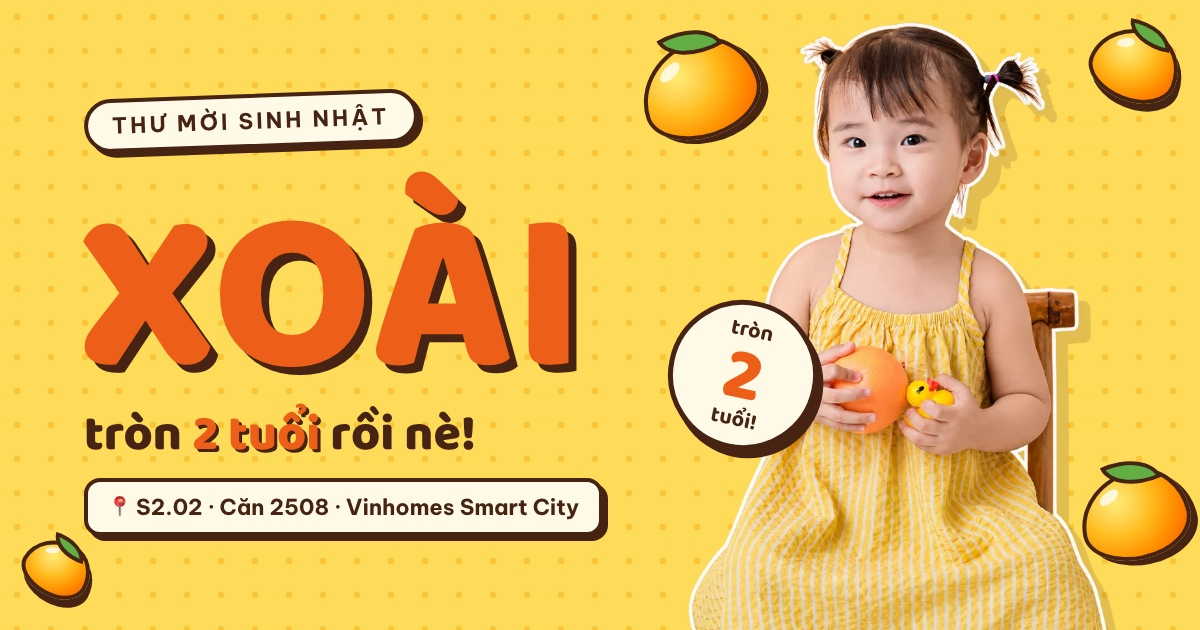
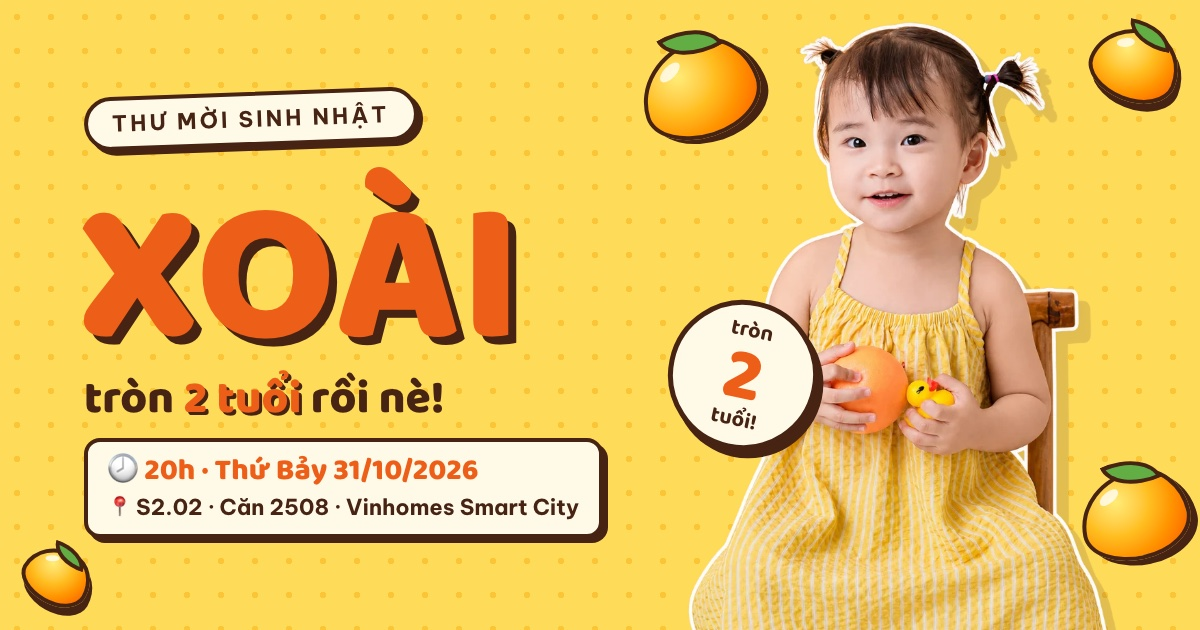
Thêm nhạc Happy Birthday, chốt giờ tiệc 20h Thứ Bảy 31/10

Changed region(s): [[0.0617, 0.2714, 0.5242, 0.7841], [0.0617, 0.1206, 0.37, 0.2714], [0.0, 0.8444, 0.4933, 0.9952]]

diff --git a/site/index.html b/site/index.html
@@ -4,7 +4,7 @@
 <meta charset="utf-8">
 <meta name="viewport" content="width=device-width, initial-scale=1, viewport-fit=cover">
 <title>Xoài tròn 2 tuổi! · Thư mời sinh nhật</title>
-<meta name="description" content="Mời bạn đến dự sinh nhật 2 tuổi của bé Xoài (Tường San) tại S202.2508 Vinhomes Smart City.">
+<meta name="description" content="Mời bạn đến dự sinh nhật 2 tuổi của bé Xoài (Tường San) lúc 20h Thứ Bảy 31/10/2026 tại S202.2508 Vinhomes Smart City.">
 <meta name="theme-color" content="#f6d24c">
 <link rel="canonical" href="https://xoai.technet.software/">
 <meta property="og:type" content="website">
@@ -12,17 +12,17 @@
 <meta property="og:locale" content="vi_VN">
 <meta property="og:url" content="https://xoai.technet.software/">
 <meta property="og:title" content="Mời bạn dự sinh nhật 2 tuổi của bé Xoài!">
-<meta property="og:description" content="Toà S2.02 · Căn 2508 · Vinhomes Smart City. Bấm để xem thư mời và xác nhận tham dự nha.">
-<meta property="og:image" content="https://xoai.technet.software/assets/og.jpg">
-<meta property="og:image:secure_url" content="https://xoai.technet.software/assets/og.jpg">
+<meta property="og:description" content="20h Thứ Bảy 31/10 · Toà S2.02 · Căn 2508 · Vinhomes Smart City. Bấm để xem thư mời và xác nhận tham dự nha.">
+<meta property="og:image" content="https://xoai.technet.software/assets/og.jpg?v=2">
+<meta property="og:image:secure_url" content="https://xoai.technet.software/assets/og.jpg?v=2">
 <meta property="og:image:type" content="image/jpeg">
 <meta property="og:image:width" content="1200">
 <meta property="og:image:height" content="630">
 <meta property="og:image:alt" content="Thư mời sinh nhật: bé Xoài tròn 2 tuổi, váy vàng, nền xoài vàng">
 <meta name="twitter:card" content="summary_large_image">
 <meta name="twitter:title" content="Mời bạn dự sinh nhật 2 tuổi của bé Xoài!">
-<meta name="twitter:description" content="Toà S2.02 · Căn 2508 · Vinhomes Smart City. Bấm để xem thư mời và xác nhận tham dự nha.">
-<meta name="twitter:image" content="https://xoai.technet.software/assets/og.jpg">
+<meta name="twitter:description" content="20h Thứ Bảy 31/10 · Toà S2.02 · Căn 2508 · Vinhomes Smart City. Bấm để xem thư mời và xác nhận tham dự nha.">
+<meta name="twitter:image" content="https://xoai.technet.software/assets/og.jpg?v=2">
 <link rel="icon" href="favicon.ico" sizes="any">
 <link rel="icon" type="image/png" sizes="192x192" href="assets/icon-192.png">
 <link rel="apple-touch-icon" href="assets/apple-touch-icon.png">
@@ -61,6 +61,15 @@ h1,h2,h3,p{margin:0}
 .btn{display:inline-flex;align-items:center;gap:10px;min-height:44px;padding:10px 20px;background:var(--cream);border:3px solid var(--ink);border-radius:999px;box-shadow:4px 4px 0 var(--ink);font:700 15px/1 var(--body);cursor:pointer;transition:transform .12s,box-shadow .12s}
 .btn:hover{transform:translate(-1px,-1px);box-shadow:5px 5px 0 var(--ink)}
 .btn:active{transform:translate(3px,3px);box-shadow:1px 1px 0 var(--ink)}
+
+.music{position:fixed;left:clamp(10px,1.6vw,24px);bottom:max(16px,env(safe-area-inset-bottom));z-index:20;width:48px;height:48px;display:flex;align-items:center;justify-content:center;padding:0;background:var(--cream);border:3px solid var(--ink);border-radius:50%;box-shadow:4px 4px 0 var(--ink);font:800 24px/1 var(--display);cursor:pointer;transition:transform .12s,box-shadow .12s,background .2s}
+.music:active{transform:translate(3px,3px);box-shadow:1px 1px 0 var(--ink)}
+.music::after{content:"";position:absolute;width:30px;height:3px;border-radius:2px;background:var(--ink);transform:rotate(-45deg)}
+.music[aria-pressed="true"]{background:var(--yellow)}
+.music[aria-pressed="true"]::after{display:none}
+.music[aria-pressed="true"] span{display:block;animation:sway 1.4s ease-in-out infinite}
+@keyframes sway{0%,100%{transform:rotate(-12deg)}50%{transform:rotate(12deg) translateY(-2px)}}
+@media (prefers-reduced-motion:reduce){.music[aria-pressed="true"] span{animation:none}}
 
 .nav{position:fixed;right:clamp(2px,1.2vw,20px);top:50%;transform:translateY(-50%);z-index:20;display:flex;flex-direction:column;gap:2px}
 .nav button{width:28px;height:34px;display:flex;align-items:center;justify-content:center;background:none;border:0;padding:0;cursor:pointer}
@@ -176,6 +185,8 @@ textarea.input{font-size:16px;line-height:1.45;resize:none;min-height:0}
 </style>
 </head>
 <body>
+<button type="button" class="music" id="music" aria-pressed="false" aria-label="Nhạc chúc mừng sinh nhật" title="Bật/tắt nhạc"><span aria-hidden="true">♪</span></button>
+
 <main id="scroller">
 
   <nav class="nav" aria-label="Chuyển trang">

diff --git a/site/app.js b/site/app.js
@@ -3,7 +3,7 @@ const CONFIG = {
   tuoi: 2,
   // Thời gian bữa tiệc theo giờ Việt Nam, dạng 'YYYY-MM-DD HH:mm' (VD '2026-11-15 17:30').
   // Để '' khi chưa chốt — trang sẽ hiện "Sắp có".
-  thoiGian: '',
+  thoiGian: '2026-10-31 20:00',
   diaChi: 'S202.2508 Vinhomes Smart City, Tây Mỗ, Hà Nội',
 };
 
@@ -89,6 +89,99 @@ document.querySelectorAll('[data-strip]').forEach((b) => b.addEventListener('cli
   };
   tick();
   setInterval(tick, 1000);
+})();
+
+/* Nhạc "Happy Birthday" kiểu hộp nhạc — tổng hợp bằng Web Audio, không cần file.
+   Trình duyệt chặn tự phát, nên nhạc bắt đầu ở lần chạm/bấm đầu tiên (trừ khi khách đã tắt). */
+(function setupMusic() {
+  const btn = $('music');
+  const AC = window.AudioContext || window.webkitAudioContext;
+  if (!AC) { btn.hidden = true; return; }
+  const OFF_KEY = 'xoai-music-off';
+  const BEAT = 60 / 132;
+  // [nốt MIDI, số phách]; mỗi dòng 6 phách, bắt đầu bằng phách đà "Hap-py".
+  const MELODY = [
+    [67, .75], [67, .25], [69, 1], [67, 1], [72, 1], [71, 2],
+    [67, .75], [67, .25], [69, 1], [67, 1], [74, 1], [72, 2],
+    [67, .75], [67, .25], [79, 1], [76, 1], [72, 1], [71, 1], [69, 1],
+    [77, .75], [77, .25], [76, 1], [72, 1], [74, 1], [72, 3],
+  ];
+  const BASS = [48, 43, 43, 48, 41, 41, 48, 48]; // nốt trầm đầu mỗi ô nhịp 3/4
+  const LOOP_BEATS = 1 + BASS.length * 3 + 6;
+  const hz = (m) => 440 * 2 ** ((m - 69) / 12);
+
+  let ctx = null;
+  let master = null;
+  let timer = 0;
+  let playing = false;
+  const isOff = () => { try { return localStorage.getItem(OFF_KEY) === '1'; } catch { return false; } };
+  const saveOff = (off) => { try { localStorage.setItem(OFF_KEY, off ? '1' : '0'); } catch {} };
+
+  function tone(m, t, len, vol, type) {
+    const o = ctx.createOscillator();
+    const g = ctx.createGain();
+    o.type = type;
+    o.frequency.value = hz(m);
+    g.gain.setValueAtTime(0.0001, t);
+    g.gain.exponentialRampToValueAtTime(vol, t + 0.012);
+    g.gain.exponentialRampToValueAtTime(0.0001, t + len);
+    o.connect(g).connect(master);
+    o.start(t);
+    o.stop(t + len + 0.05);
+  }
+
+  function round(t0) {
+    let t = t0;
+    MELODY.forEach(([m, beats]) => {
+      const len = Math.max(0.9, beats * BEAT * 1.4);
+      tone(m, t, len, 0.32, 'sine');
+      tone(m + 12, t, len * 0.6, 0.07, 'sine'); // tiếng "ting" hộp nhạc
+      t += beats * BEAT;
+    });
+    BASS.forEach((m, i) => tone(m, t0 + (1 + i * 3) * BEAT, 3 * BEAT, 0.12, 'triangle'));
+    const next = t0 + LOOP_BEATS * BEAT;
+    timer = setTimeout(() => round(next), (next - ctx.currentTime - 0.3) * 1000);
+  }
+
+  function start() {
+    if (playing) return;
+    if (!ctx) ctx = new AC();
+    ctx.resume();
+    master = ctx.createGain();
+    master.gain.value = 0.6;
+    master.connect(ctx.destination);
+    playing = true;
+    btn.setAttribute('aria-pressed', 'true');
+    round(ctx.currentTime + 0.15);
+  }
+
+  function stop() {
+    if (!playing) return;
+    clearTimeout(timer);
+    const m = master;
+    m.gain.setTargetAtTime(0, ctx.currentTime, 0.05);
+    setTimeout(() => m.disconnect(), 400);
+    playing = false;
+    btn.setAttribute('aria-pressed', 'false');
+  }
+
+  btn.addEventListener('click', () => {
+    if (playing) { stop(); saveOff(true); } else { start(); saveOff(false); }
+  });
+
+  const firstTouch = (e) => {
+    window.removeEventListener('pointerdown', firstTouch);
+    window.removeEventListener('keydown', firstTouch);
+    if (btn.contains(e.target) || isOff()) return;
+    start();
+  };
+  window.addEventListener('pointerdown', firstTouch);
+  window.addEventListener('keydown', firstTouch);
+
+  let resumeOnShow = false;
+  document.addEventListener('visibilitychange', () => {
+    if (document.hidden) { resumeOnShow = playing; stop(); } else if (resumeOnShow) start();
+  });
 })();
 
 /* Xác nhận tham dự */
